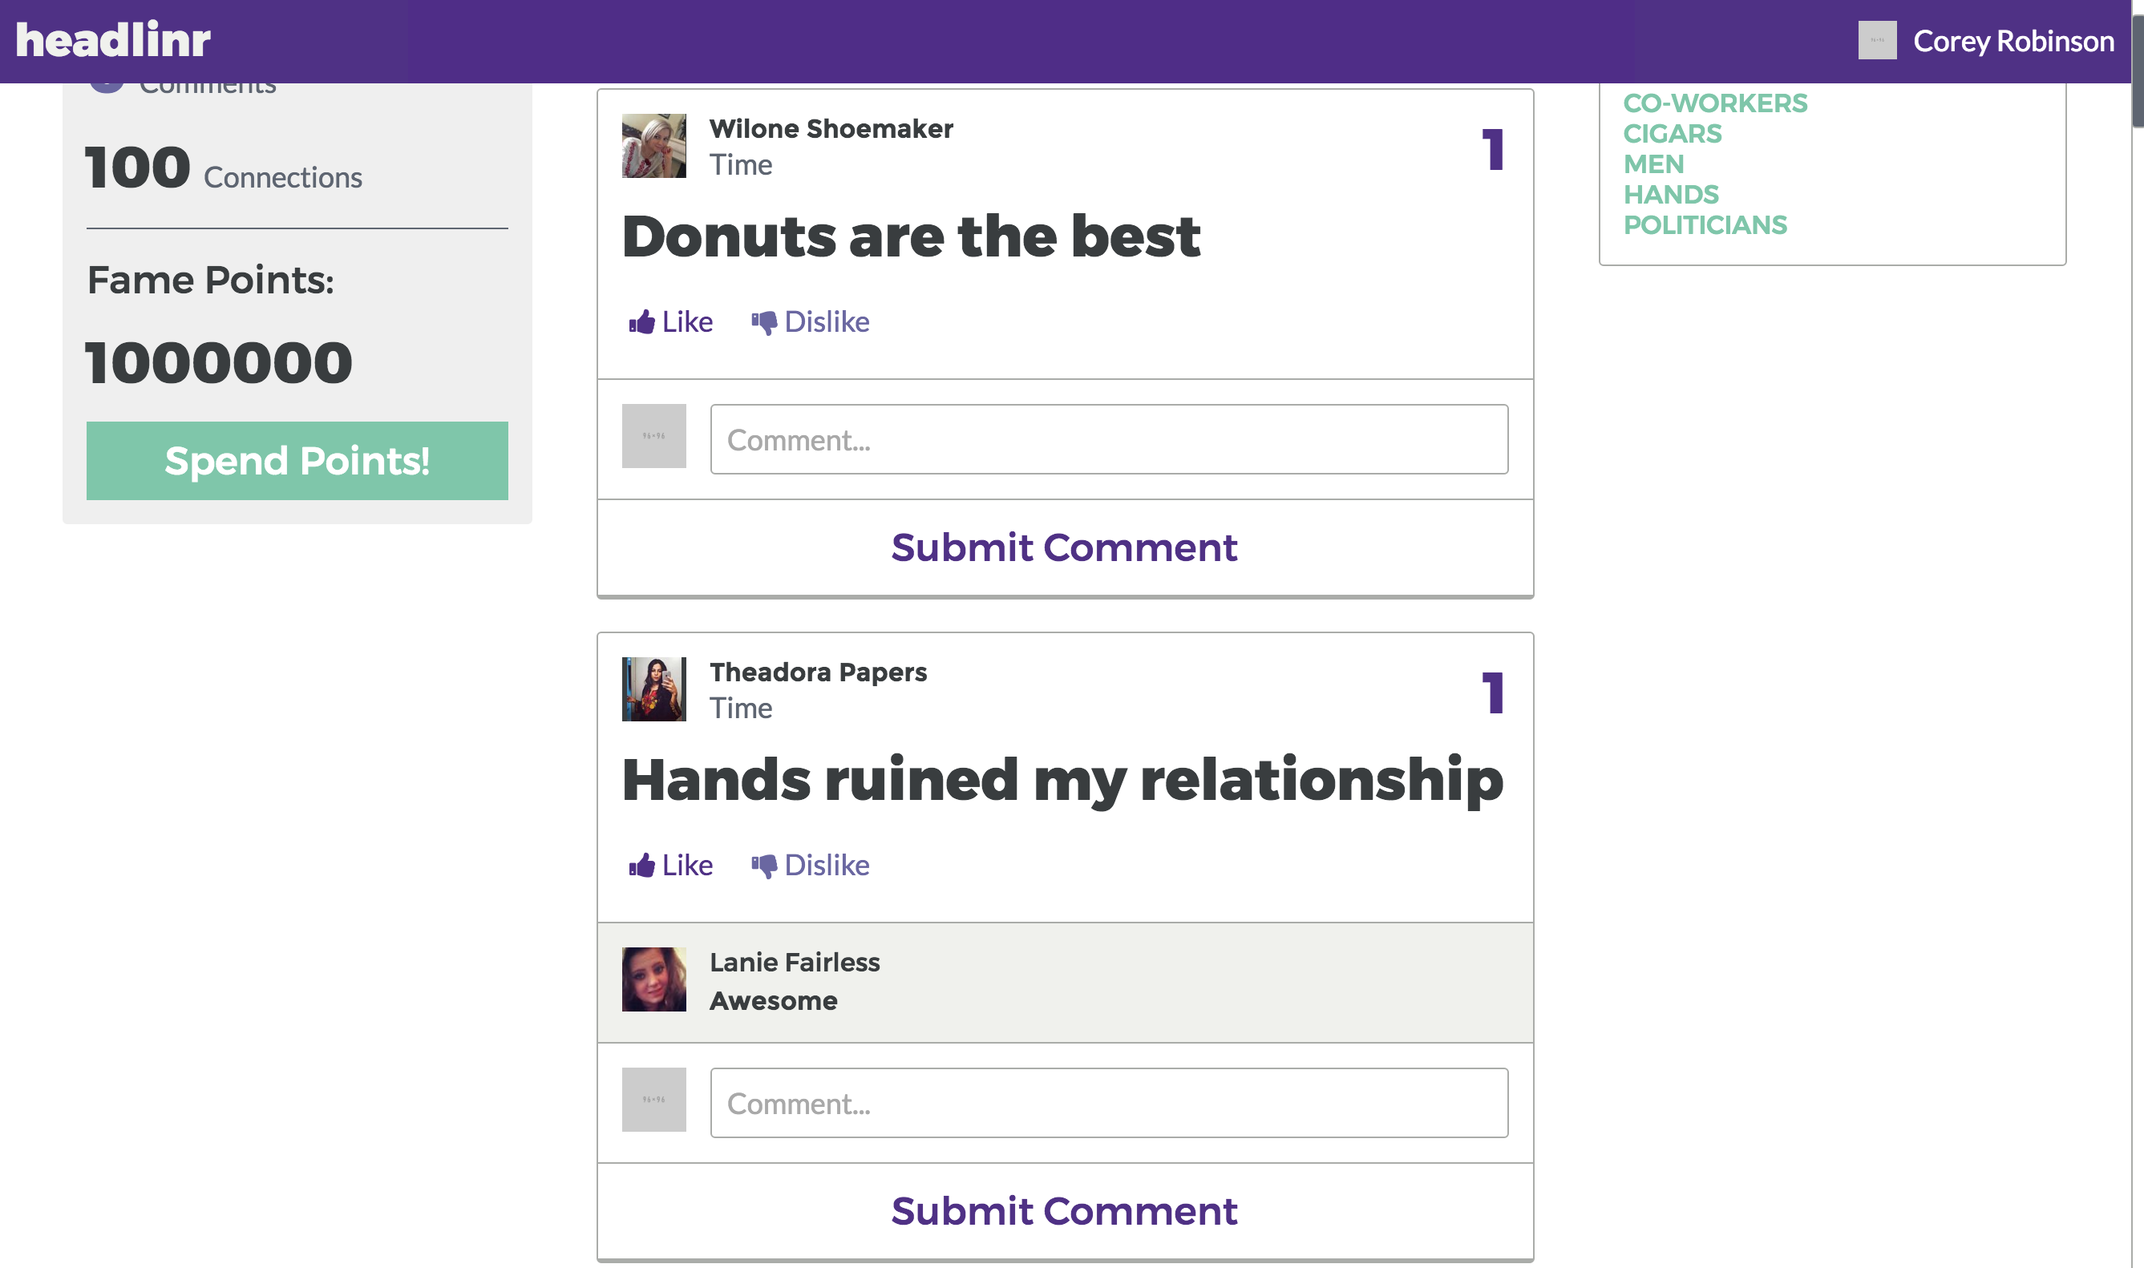
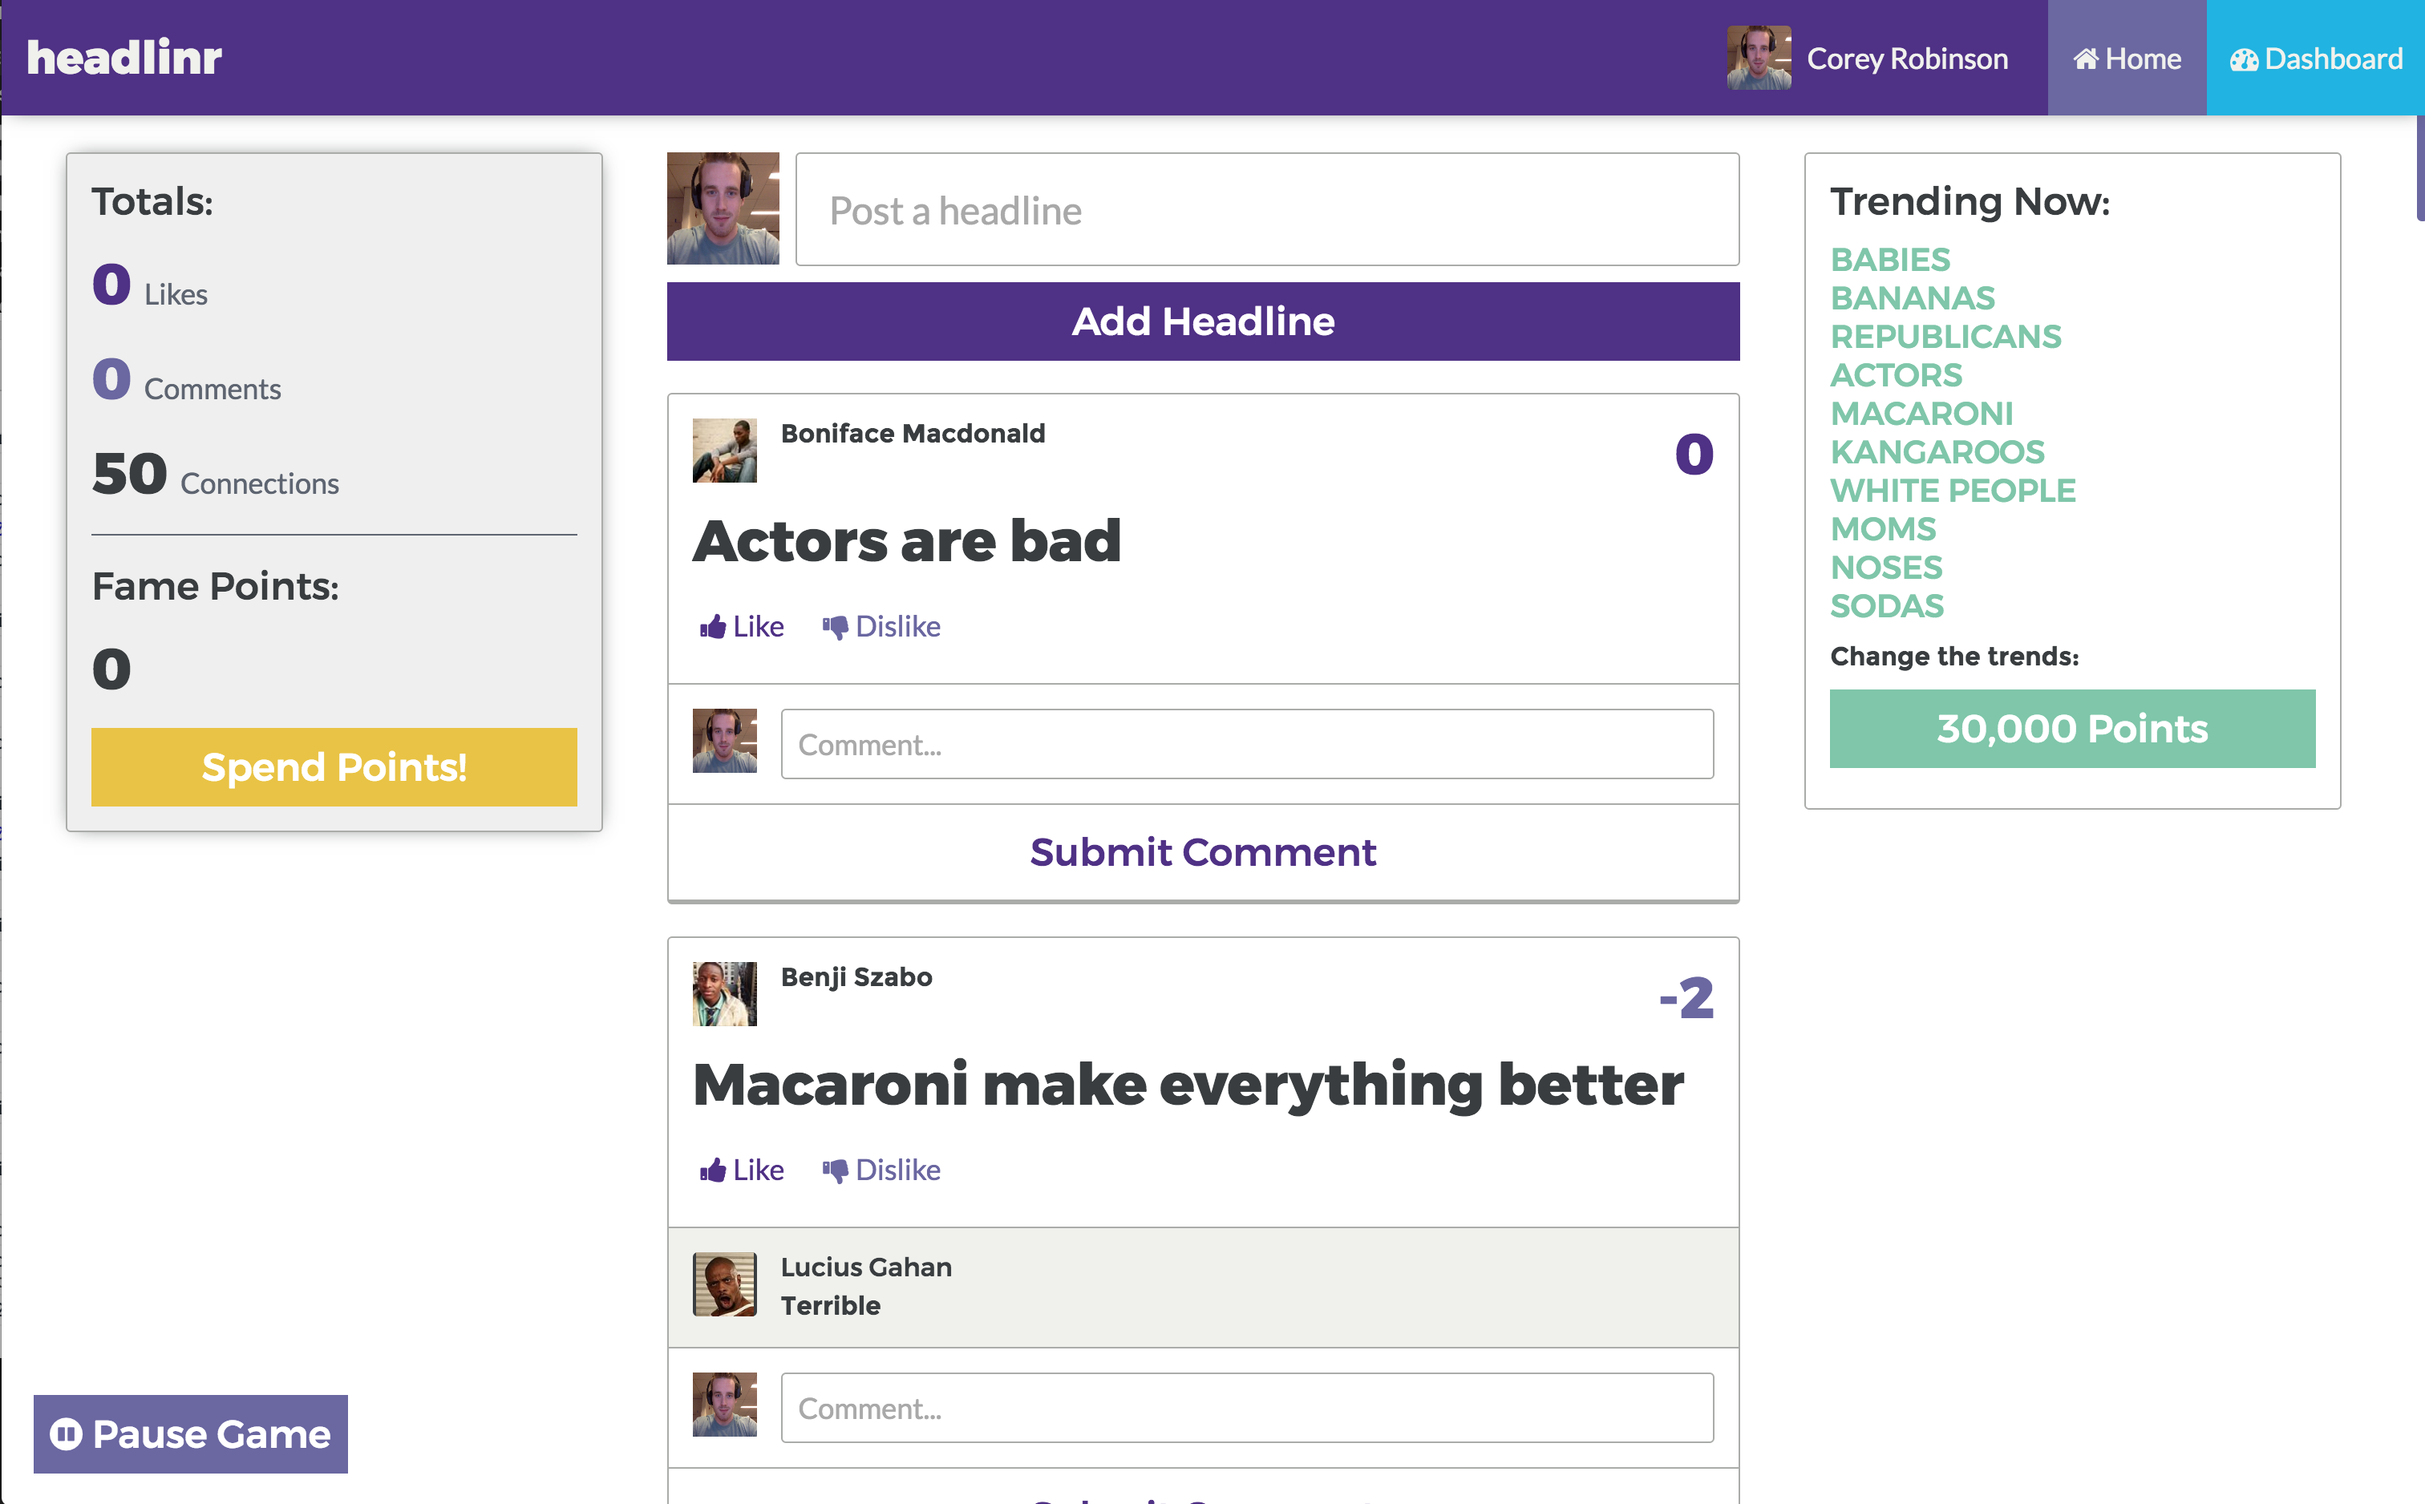
Small edits to projects

diff --git a/main.js b/main.js
@@ -6,7 +6,7 @@ var _PROJECTS = [
         paragraph: "This game spawned from my interest in fake news, and the recent election. When creating this game I was thinking about the mass manipulation of users on social media. Everyone likes to think that they know what they are doing, and who they are supporting on social media. But realistically, popular social media users are most likely manipulating their fan bases in some way for their own gain. This game aims to uncover this problem. You play as a regular social media user on a website called Headlinr. On Headlinr users can only write about trending topics, and they can only write 10 words at most. The goal of the game is to manipulate your connections to get the maximum amount of likes on your headlines. The game can run infinitely, with upgrades that you unlock along the way. This game is still in development, but will be finished soon. You can play the alpha by cloning my repo and running it locally.",
         tech: ['Electron', 'Vue', 'RiTa.js'],
         repo: 'https://github.com/explodingunicorn/headlinr',
-        pics: 2
+        pics: 5
     },
     {
         name: 'Vizzy',

diff --git a/scripts/projects.js b/scripts/projects.js
@@ -6,7 +6,7 @@ var _PROJECTS = [
         paragraph: "This game spawned from my interest in fake news, and the recent election. When creating this game I was thinking about the mass manipulation of users on social media. Everyone likes to think that they know what they are doing, and who they are supporting on social media. But realistically, popular social media users are most likely manipulating their fan bases in some way for their own gain. This game aims to uncover this problem. You play as a regular social media user on a website called Headlinr. On Headlinr users can only write about trending topics, and they can only write 10 words at most. The goal of the game is to manipulate your connections to get the maximum amount of likes on your headlines. The game can run infinitely, with upgrades that you unlock along the way. This game is still in development, but will be finished soon. You can play the alpha by cloning my repo and running it locally.",
         tech: ['Electron', 'Vue', 'RiTa.js'],
         repo: 'https://github.com/explodingunicorn/headlinr',
-        pics: 2
+        pics: 5
     },
     {
         name: 'Vizzy',
